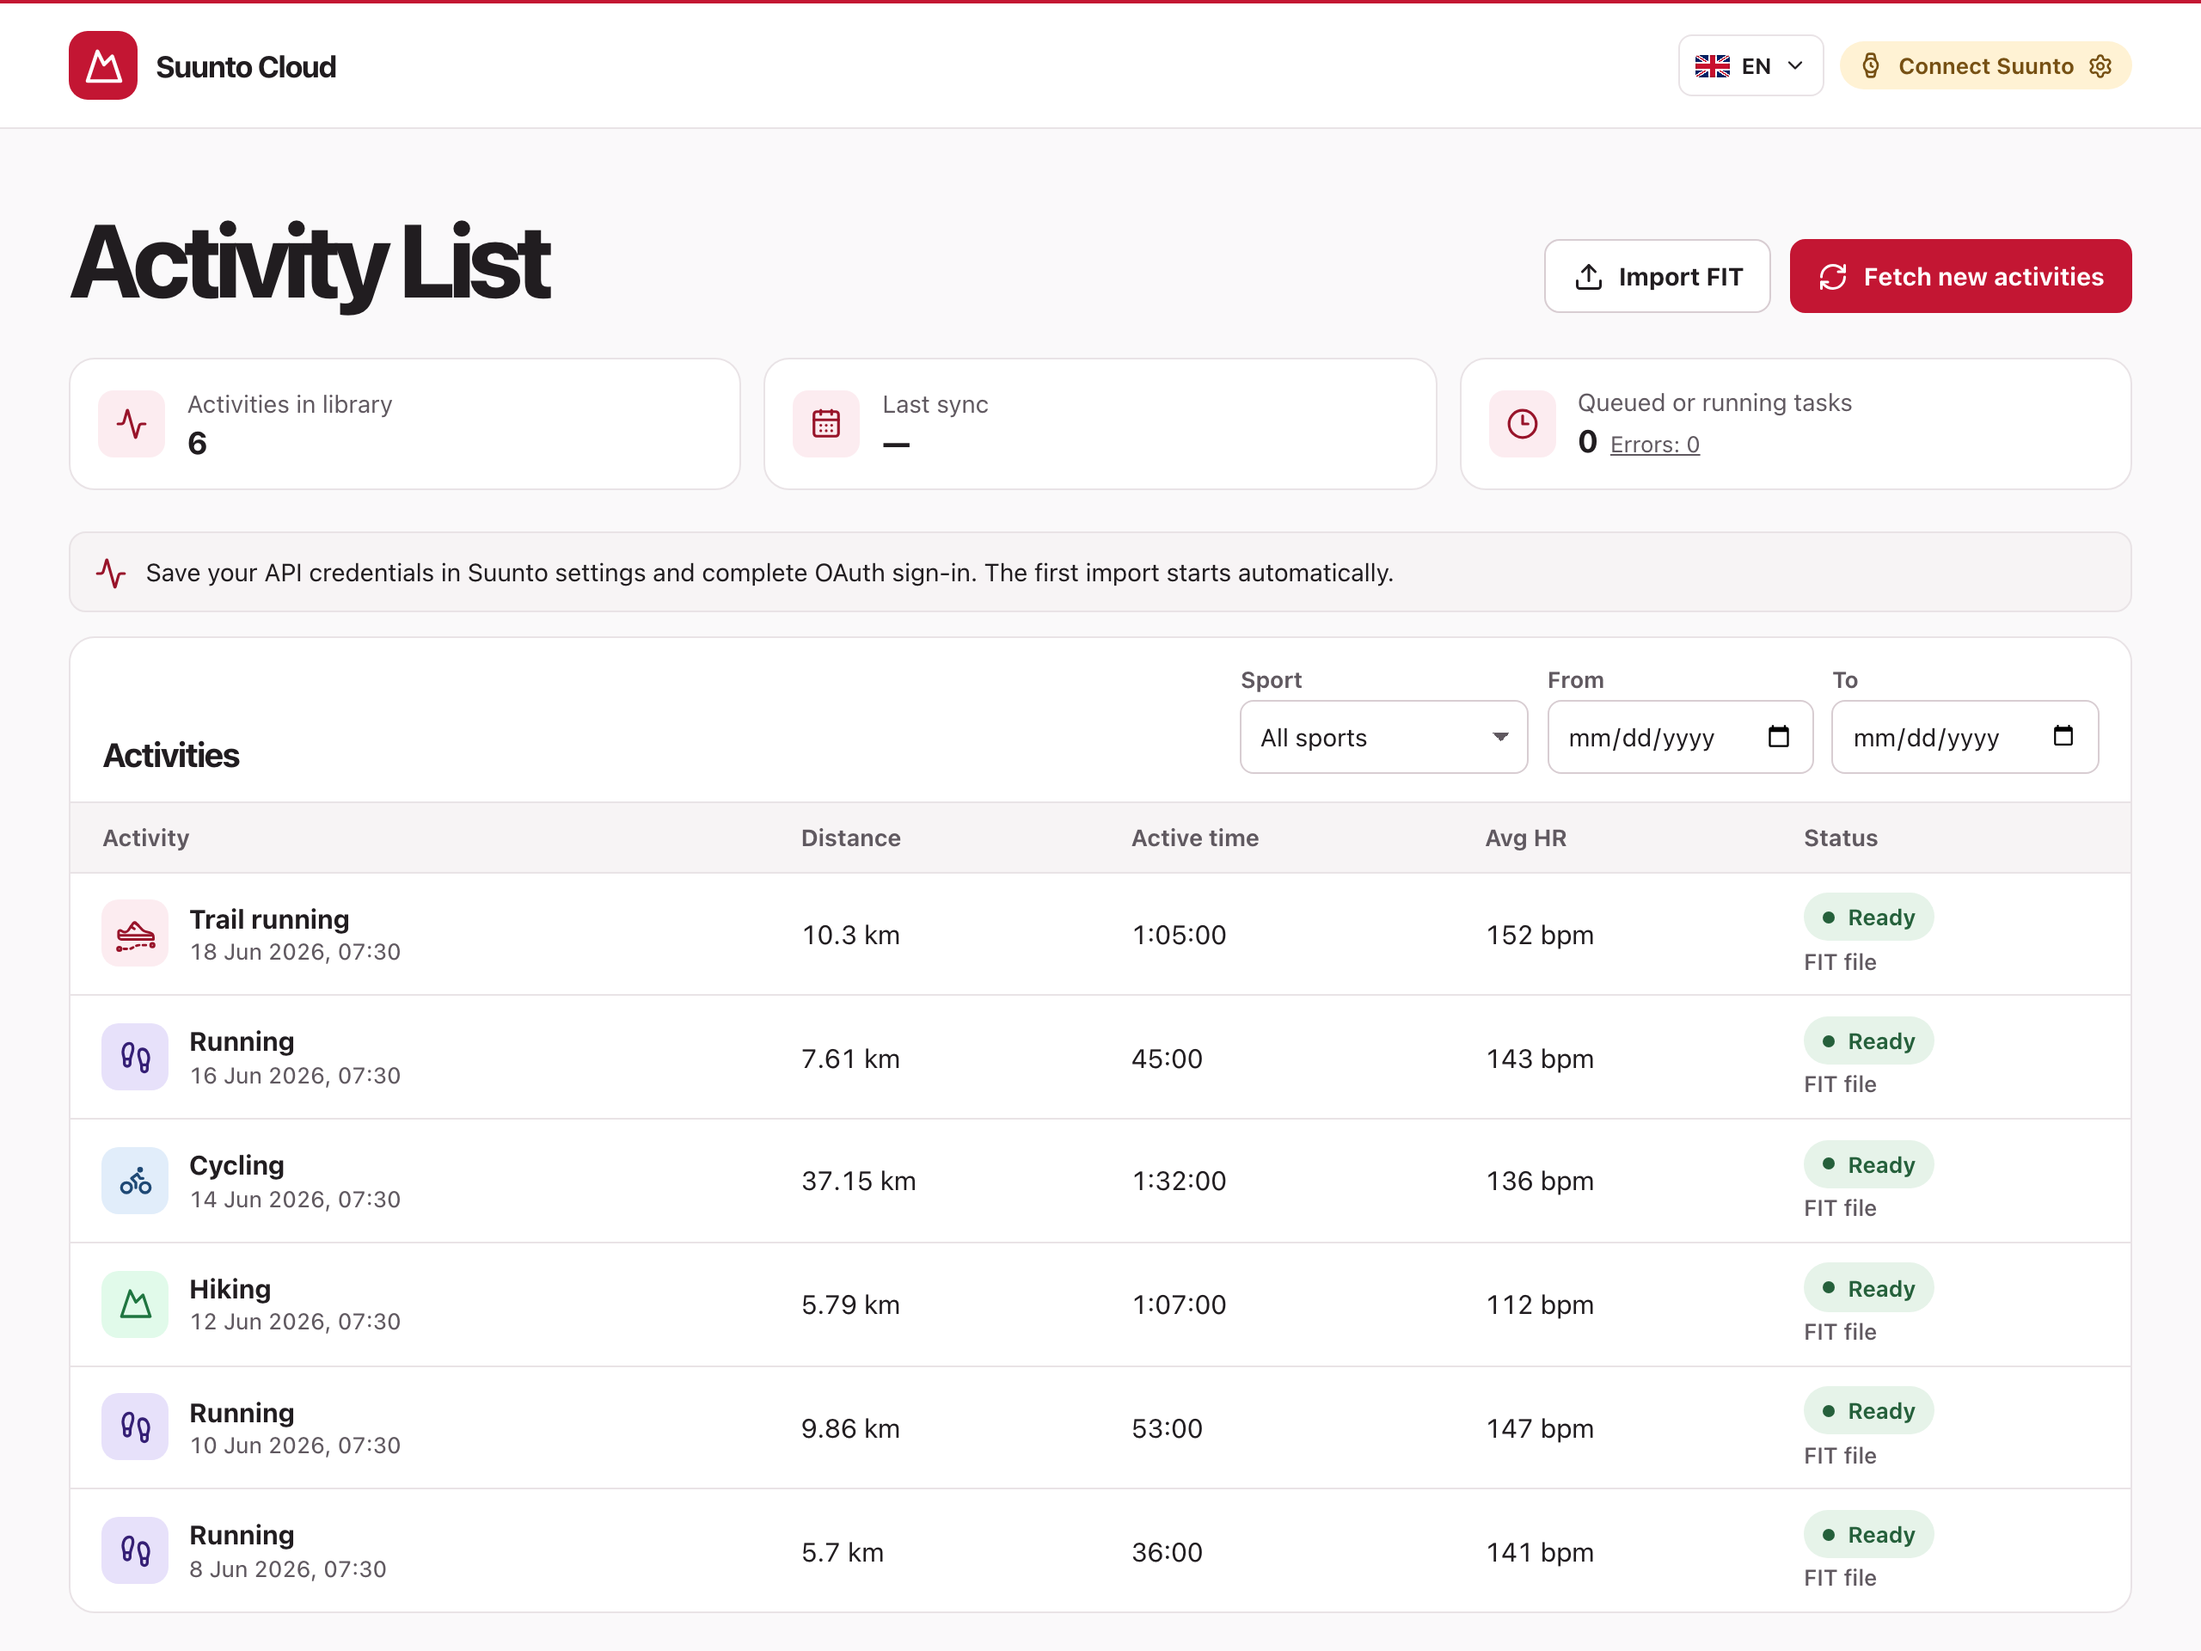
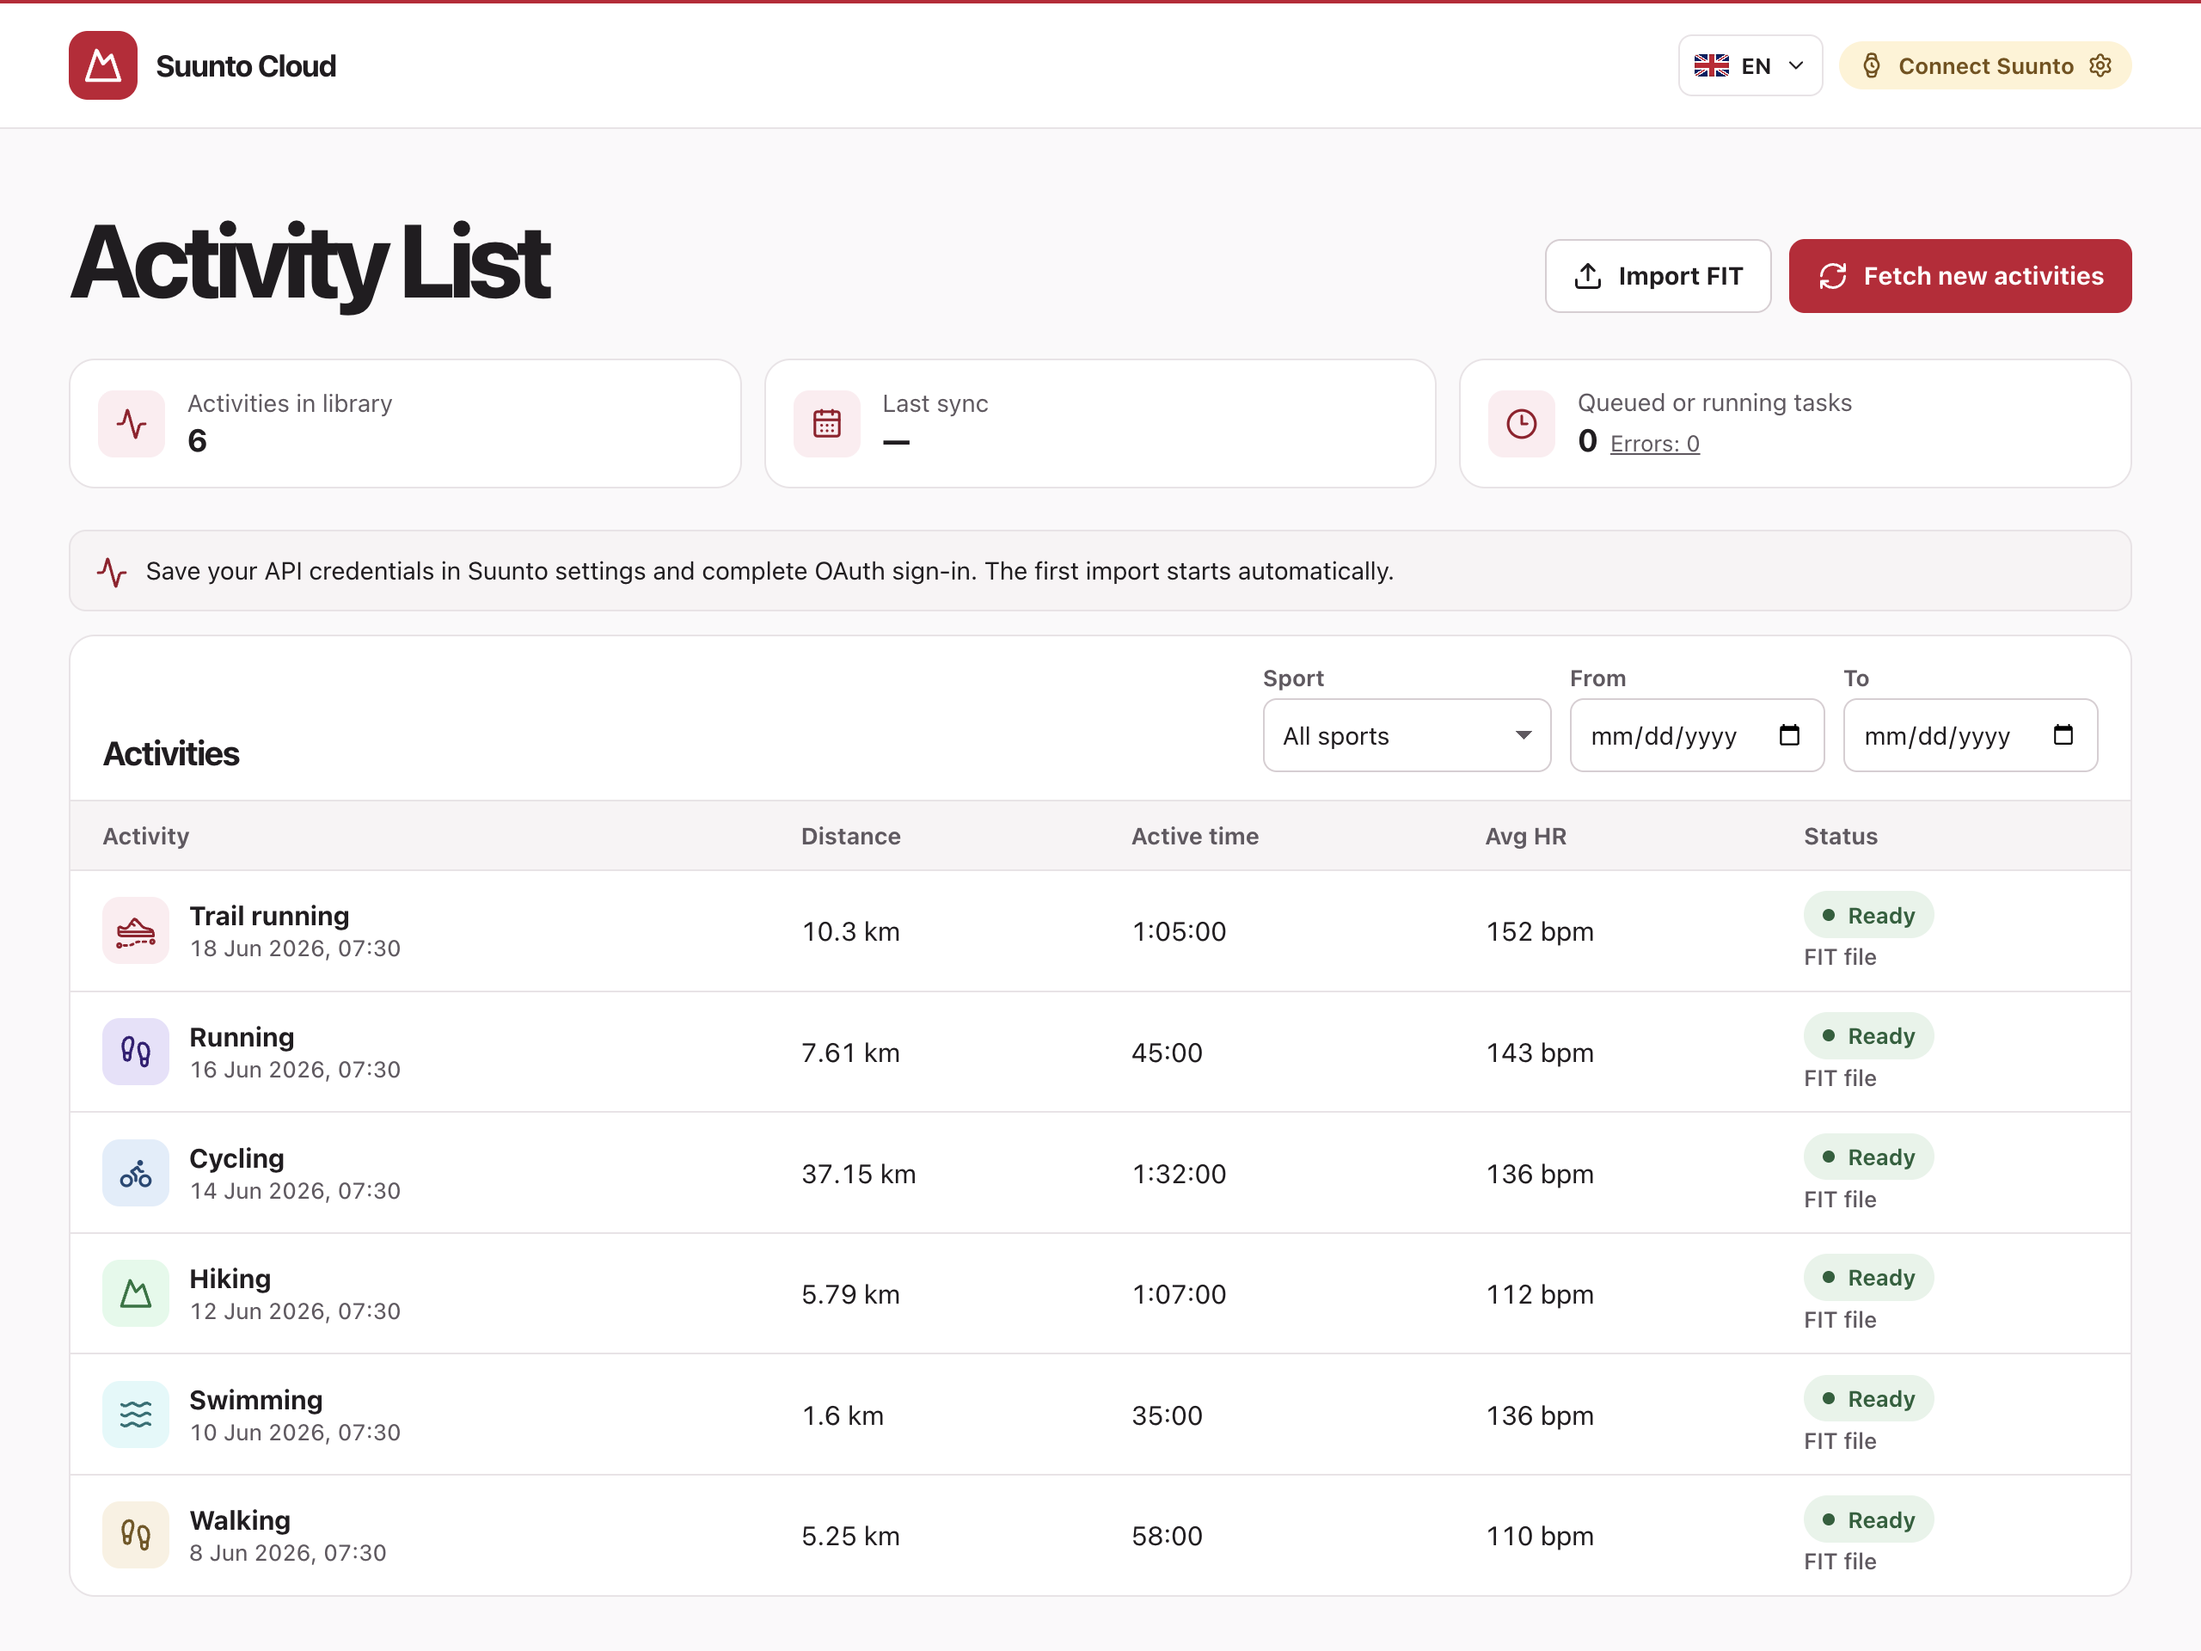
Expand README screenshots and update changelog

diff --git a/README.md b/README.md
@@ -23,7 +23,12 @@ The current tools download data from Cloud API; this repository has no MCP clien
 - [Independence and API access](#independence-and-api-access)
 - [CLI quick start with Docker](#quick-start-with-docker)
 - [Local web app](#local-web-app)
-- [Web app screenshots](#web-app-screenshots)
+  - [Using the library](#using-the-library)
+  - [How it runs](#how-it-runs)
+  - [Web app screenshots](#web-app-screenshots)
+    - [Activity list](#activity-list)
+    - [Workout overview](#workout-overview)
+    - [App settings](#app-settings)
 - [Marathon example](#example-analysis-marathon)
 - [Synthetic chart previews](#synthetic-chart-previews)
 - [Project structure](#structure)
@@ -141,19 +146,19 @@ configuration guide](docs/web.md#storage-and-performance)
 
 ### Web app screenshots
 
-These screenshots use synthetic FIT workouts. They show the activity list,
-a trail-run overview, and the provider settings.
+The screenshots use synthetic FIT workouts.
 
-![Activity list with FIT import, sync, filters, and job status](docs/screenshots/activity-list.png)
+#### Activity list
 
-<details>
-<summary>Workout overview and application settings</summary>
+![Activity list with color-coded icons for trail running, running, cycling, hiking, swimming, and walking](docs/screenshots/activity-list.png)
+
+#### Workout overview
 
 ![Trail-running overview with session metrics, a watch model, and interactive charts](docs/screenshots/workout-overview.png)
 
-![Application settings with Suunto, OpenAI, and Claude sections and a blank API key field](docs/screenshots/app-settings.png)
+#### App settings
 
-</details>
+![App settings with Suunto, OpenAI, and Claude sections over the color-coded activity list](docs/screenshots/app-settings.png)
 
 ## Example analysis: marathon
 

diff --git a/CHANGELOG.md b/CHANGELOG.md
@@ -4,7 +4,29 @@ Notable changes to Suunto Cloud Training Analysis are recorded here.
 
 ## [Unreleased]
 
-Future iterations are developed on the `develop` branch.
+### Added
+
+- Run a local workout library with React, Fastify, SQLite, and Docker Compose.
+  A background worker reuses the Python analyzer for offline single-session FIT
+  imports and Suunto Cloud workouts. [Web app guide](docs/web.md)
+- Import the most recent 30 calendar days on the first successful Suunto sync.
+  Later syncs fetch new and changed workouts. Show progress and completion
+  notifications for syncs started from the current page, with an error list that
+  supports individual and bulk dismissal.
+- Filter the library by sport or date, with distinct icon colors by activity
+  type and an English or Polish interface. Workout details show metrics, laps,
+  interactive charts, and the watch model when the FIT file includes its name.
+- Generate optional OpenAI or Claude interpretations on demand using selected
+  workout metrics and lap summaries. Save each provider's results separately
+  and manage its local API key from the app settings.
+
+### Changed
+
+- Store web app data in a persistent Docker volume and keep Suunto credentials
+  and AI keys in the worker's private auth mount. Save Suunto API settings from
+  the app before completing OAuth. [Storage and configuration](docs/web.md)
+- Document the web workflow and show the activity list, workout overview, and
+  settings with synthetic data. [Web app screenshots](README.md#web-app-screenshots)
 
 ## [1.3.0] - 2026-11-20
 
